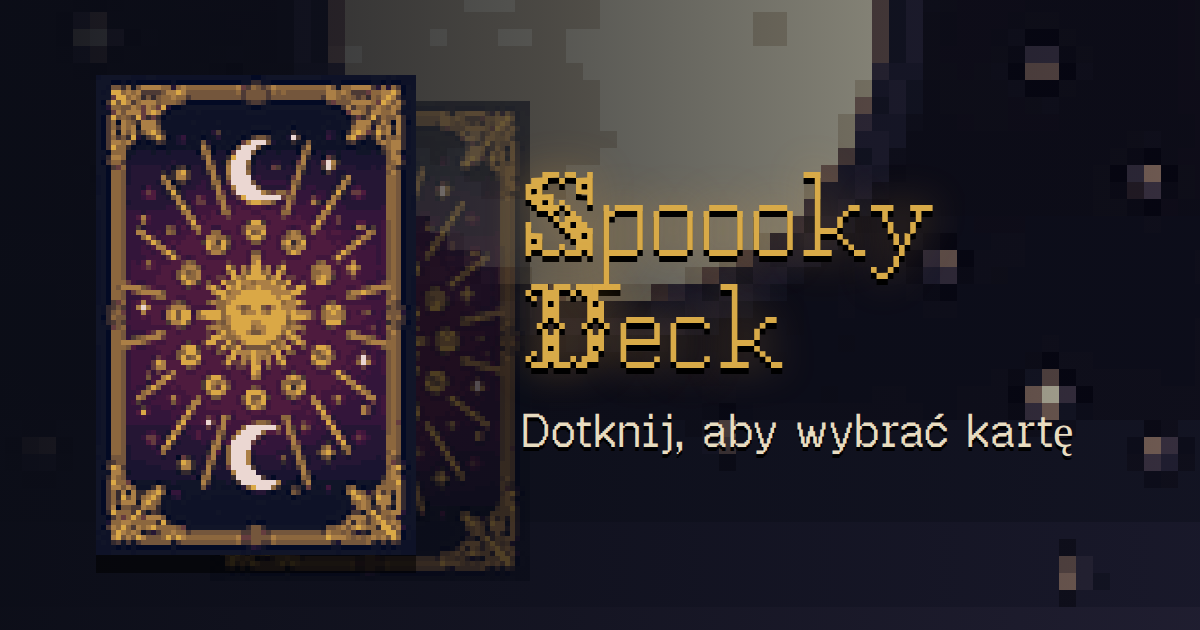
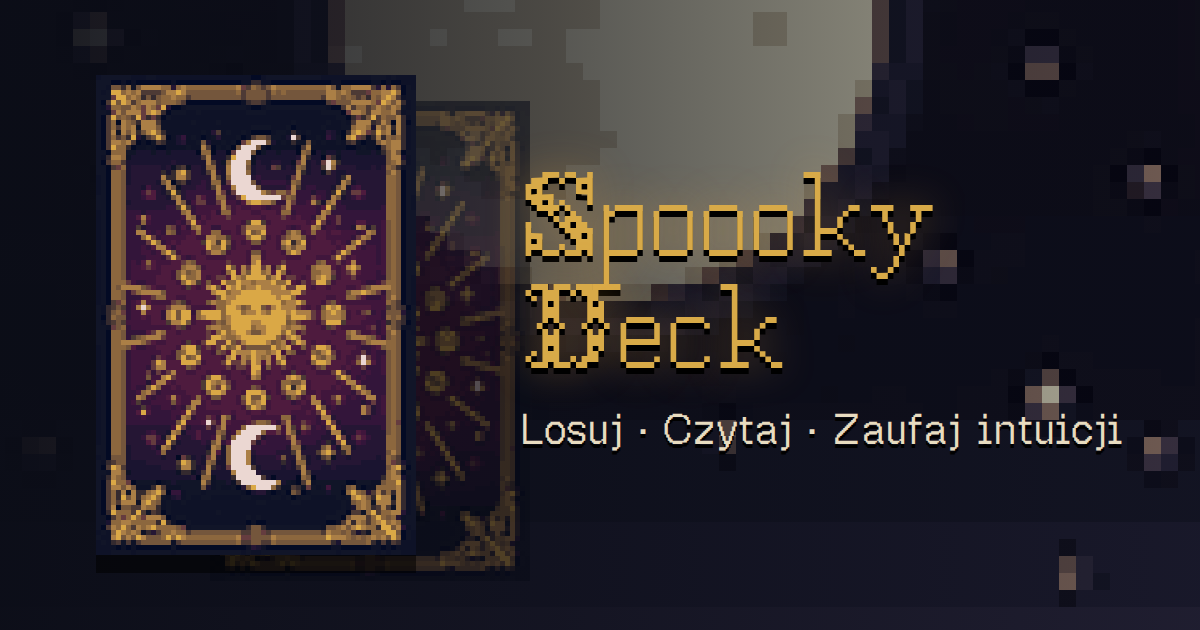
Share image tagline: Losuj · Czytaj · Zaufaj intuicji

Changed region(s): [[0.4317, 0.6333, 0.9558, 0.7238]]

diff --git a/sw.js b/sw.js
@@ -1,5 +1,5 @@
 // Service worker Spoooky Deck. Plik sw.js jest generowany przez tools/build_sw.py (wersja = skrót zawartości plików).
-const VERSION = '83b069399e';
+const VERSION = '58f3bcfb33';
 const CACHE = 'spooooky-' + VERSION;
 const FILES = ["./", "css/cards.css", "css/fonts.css", "css/style.css", "css/theme.css", "data/cards.json", "data/grammar.en.json", "data/grammar.pl.json", "data/ui.en.json", "data/ui.pl.json", "data/zodiac.en.json", "data/zodiac.pl.json", "fonts/CrossStitch-Regular.ttf", "fonts/OldeTome.ttf", "fonts/geistpixel-latin-ext.woff2", "fonts/geistpixel-latin.woff2", "fonts/jacquard12-latin-ext.woff2", "fonts/jacquard12-latin.woff2", "img/cards/ar00.png", "img/cards/ar01.png", "img/cards/ar02.png", "img/cards/ar03.png", "img/cards/ar04.png", "img/cards/ar05.png", "img/cards/ar06.png", "img/cards/ar07.png", "img/cards/ar08.png", "img/cards/ar09.png", "img/cards/ar10.png", "img/cards/ar11.png", "img/cards/ar12.png", "img/cards/ar13.png", "img/cards/ar14.png", "img/cards/ar15.png", "img/cards/ar16.png", "img/cards/ar17.png", "img/cards/ar18.png", "img/cards/ar19.png", "img/cards/ar20.png", "img/cards/ar21.png", "img/cards/cu01.png", "img/cards/cu02.png", "img/cards/cu03.png", "img/cards/cu04.png", "img/cards/cu05.png", "img/cards/cu06.png", "img/cards/cu07.png", "img/cards/cu08.png", "img/cards/cu09.png", "img/cards/cu10.png", "img/cards/cu11.png", "img/cards/cu12.png", "img/cards/cu13.png", "img/cards/cu14.png", "img/cards/pe01.png", "img/cards/pe02.png", "img/cards/pe03.png", "img/cards/pe04.png", "img/cards/pe05.png", "img/cards/pe06.png", "img/cards/pe07.png", "img/cards/pe08.png", "img/cards/pe09.png", "img/cards/pe10.png", "img/cards/pe11.png", "img/cards/pe12.png", "img/cards/pe13.png", "img/cards/pe14.png", "img/cards/sw01.png", "img/cards/sw02.png", "img/cards/sw03.png", "img/cards/sw04.png", "img/cards/sw05.png", "img/cards/sw06.png", "img/cards/sw07.png", "img/cards/sw08.png", "img/cards/sw09.png", "img/cards/sw10.png", "img/cards/sw11.png", "img/cards/sw12.png", "img/cards/sw13.png", "img/cards/sw14.png", "img/cards/wa01.png", "img/cards/wa02.png", "img/cards/wa03.png", "img/cards/wa04.png", "img/cards/wa05.png", "img/cards/wa06.png", "img/cards/wa07.png", "img/cards/wa08.png", "img/cards/wa09.png", "img/cards/wa10.png", "img/cards/wa11.png", "img/cards/wa12.png", "img/cards/wa13.png", "img/cards/wa14.png", "img/emoji/U+1F30D.png", "img/emoji/U+1F319.png", "img/emoji/U+1F377.png", "img/emoji/U+1F3C6.png", "img/emoji/U+1F4A7.png", "img/emoji/U+1F4A8.png", "img/emoji/U+1F507.png", "img/emoji/U+1F50A.png", "img/emoji/U+1F525.png", "img/emoji/U+1F53A.png", "img/emoji/U+1F53B.png", "img/emoji/U+1FA99.png", "img/emoji/U+2648.png", "img/emoji/U+2649.png", "img/emoji/U+264A.png", "img/emoji/U+264B.png", "img/emoji/U+264C.png", "img/emoji/U+264D.png", "img/emoji/U+264E.png", "img/emoji/U+264F.png", "img/emoji/U+2650.png", "img/emoji/U+2651.png", "img/emoji/U+2652.png", "img/emoji/U+2653.png", "img/emoji/U+2694.png", "img/emoji/U+2728.png", "img/icons/apple-touch-icon.png", "img/icons/favicon-16.png", "img/icons/favicon-32.png", "img/icons/icon-192.png", "img/icons/icon-512.png", "img/icons/icon-maskable-512.png", "img/og.png", "img/ui/back.png", "img/ui/bg-card.png", "img/ui/bg-form.png", "img/ui/bg-pick.png", "img/ui/bg-read.png", "img/ui/btn-alt.png", "img/ui/btn-white.png", "img/ui/btn.png", "img/ui/candle.png", "img/ui/cardframe.png", "img/ui/cursor.png", "img/ui/emblem.png", "img/ui/fade-down.png", "img/ui/fade-up.png", "img/ui/frame.png", "img/ui/hero.png", "img/ui/ic-candle.png", "img/ui/ic-stars.png", "img/ui/ic-tower.png", "img/ui/intro-A.png", "img/ui/intro-B.png", "img/ui/intro-C.png", "img/ui/intro-O.png", "img/ui/intro.png", "img/ui/picture-frame.png", "img/ui/shine.png", "index.html", "js/app.js", "js/audio.js", "js/deck.js", "js/fx.js", "js/oracle.js", "js/share.js", "js/vendor/seedrandom.min.js", "js/vendor/tracery.js", "js/vendor/zzfx.js", "manifest.webmanifest"];
 

diff --git a/index.html b/index.html
@@ -13,14 +13,14 @@
 <meta property="og:type" content="website">
 <meta property="og:site_name" content="Spoooky Deck">
 <meta property="og:title" content="Spoooky Deck">
-<meta property="og:description" content="Dotknij, aby wybrać kartę. Pikselowa wyrocznia tarota dla firm.">
+<meta property="og:description" content="Losuj · Czytaj · Zaufaj intuicji. Pikselowa wyrocznia tarota dla firm.">
 <meta property="og:url" content="https://whosz.pl/tarot/">
 <meta property="og:image" content="https://whosz.pl/tarot/img/og.png">
 <meta property="og:image:width" content="1200">
 <meta property="og:image:height" content="630">
 <meta name="twitter:card" content="summary_large_image">
 <meta name="twitter:title" content="Spoooky Deck">
-<meta name="twitter:description" content="Dotknij, aby wybrać kartę. Pikselowa wyrocznia tarota dla firm.">
+<meta name="twitter:description" content="Losuj · Czytaj · Zaufaj intuicji. Pikselowa wyrocznia tarota dla firm.">
 <meta name="twitter:image" content="https://whosz.pl/tarot/img/og.png">
 <link rel="apple-touch-icon" href="img/icons/apple-touch-icon.png">
 <meta name="apple-mobile-web-app-capable" content="yes">
@@ -30,10 +30,10 @@
 <link rel="preload" href="fonts/jacquard12-latin-ext.woff2" as="font" type="font/woff2" crossorigin>
 <link rel="preload" href="fonts/geistpixel-latin.woff2" as="font" type="font/woff2" crossorigin>
 <link rel="preload" href="fonts/geistpixel-latin-ext.woff2" as="font" type="font/woff2" crossorigin>
-<link rel="stylesheet" href="css/fonts.css?v=113">
-<link rel="stylesheet" href="css/style.css?v=113">
-<link rel="stylesheet" href="css/cards.css?v=113">
-<link rel="stylesheet" href="css/theme.css?v=113">
+<link rel="stylesheet" href="css/fonts.css?v=114">
+<link rel="stylesheet" href="css/style.css?v=114">
+<link rel="stylesheet" href="css/cards.css?v=114">
+<link rel="stylesheet" href="css/theme.css?v=114">
 </head>
 <body>
 <div id="phone">
@@ -121,6 +121,6 @@
 <script src="js/vendor/seedrandom.min.js"></script>
 <script src="js/vendor/tracery.js"></script>
 <script src="js/vendor/zzfx.js"></script>
-<script type="module" src="js/app.js?v=113"></script>
+<script type="module" src="js/app.js?v=114"></script>
 </body>
 </html>
